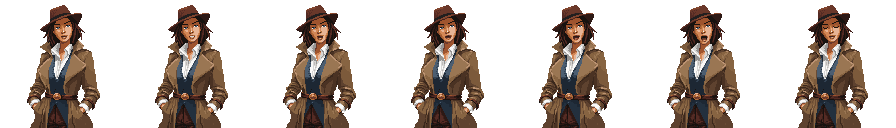
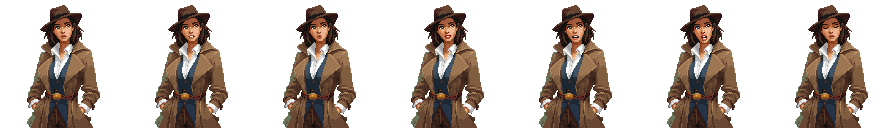
Sarah (female_office_worker_v2) south idle: nose on frames 0 and 3; Agent HaX visemes back to the hand-edited sheet from before b37b6e3f; tools/pixellab_drift_audit.py finds atlas hand edits missing from overrides, nurse2 stethoscope fix adopted as overrides

diff --git a/tools/pixellab_drift_audit.py b/tools/pixellab_drift_audit.py
@@ -1,0 +1,146 @@
+#!/usr/bin/env python3
+"""Find hand edits to walk atlases that tools/pixellab_overrides doesn't know about.
+
+`pixellab_pipeline.py import` rebuilds an atlas from the PixelLab ZIP export plus the committed
+frame overrides, so an edit painted straight onto public/.../characters/<key>.png is lost on
+the next import (e.g. after adding an animation). This rebuilds each atlas offline from the
+local export (tmp/pixellab/_export/<key>) and the overrides, then diffs it frame by frame
+against the committed atlas. Any frame that differs is an untracked hand edit.
+
+    python3 tools/pixellab_drift_audit.py                 # every key in pixellab_characters.json
+    python3 tools/pixellab_drift_audit.py female_nurse2_v2
+    python3 tools/pixellab_drift_audit.py female_nurse2_v2 --adopt   # save drifted frames as overrides
+
+--adopt crops each drifted frame out of the committed atlas back to the export frame's size and
+position and writes it to tools/pixellab_overrides/<key>/<animation>/<direction>/frame_NNN.png,
+so the committed atlas becomes reproducible. Run the audit again afterwards: it should be clean.
+Nothing in public/ is modified.
+"""
+import argparse
+import contextlib
+import io
+import json
+import shutil
+import sys
+from pathlib import Path
+
+from PIL import Image, ImageChops
+
+REPO = Path(__file__).resolve().parent.parent
+sys.path.insert(0, str(REPO / "tools"))
+from convert_pixellab_to_spritesheet import process_character  # noqa: E402
+
+ASSETS = REPO / "public/break_escape/assets/characters"
+EXPORTS = REPO / "tmp/pixellab/_export"
+OVERRIDES = REPO / "tools/pixellab_overrides"
+WORK = REPO / "tmp/pixellab/_drift"
+
+
+def export_root(export_dir):
+    sf = export_dir / ".state_folder"
+    if sf.exists():
+        return export_dir / sf.read_text().strip()
+    return next(p for p in [export_dir, *sorted(export_dir.iterdir())] if (p / "animations").is_dir())
+
+
+def frames(png, js):
+    im = Image.open(png).convert("RGBA")
+    out = {}
+    for name, v in json.loads(Path(js).read_text())["frames"].items():
+        f = v["frame"]
+        out[name] = im.crop((f["x"], f["y"], f["x"] + f["w"], f["y"] + f["h"]))
+    return out
+
+
+def changed(a, b):
+    return sum(1 for p in ImageChops.difference(a, b).getdata() if any(p))
+
+
+def audit(key):
+    """Returns (status, {frame name: changed pixels | reason}, export root)."""
+    if not (ASSETS / f"{key}.png").exists():
+        return "no atlas", {}, None
+    if not (EXPORTS / key).exists():
+        return "no local export in tmp/pixellab/_export (cannot check)", {}, None
+    work = WORK / "work" / key
+    shutil.rmtree(work, ignore_errors=True)
+    shutil.copytree(EXPORTS / key, work)
+    root = export_root(work)
+    ov = OVERRIDES / key
+    for f in ov.rglob("*.png") if ov.exists() else []:
+        dest = root / "animations" / f.relative_to(ov)
+        if dest.parent.exists():
+            shutil.copy(f, dest)
+    out = WORK / "atlas" / key
+    out.mkdir(parents=True, exist_ok=True)
+    with contextlib.redirect_stdout(io.StringIO()):
+        if not process_character(work, out, key=key):
+            return "rebuild failed", {}, None
+    committed = frames(ASSETS / f"{key}.png", ASSETS / f"{key}.json")
+    rebuilt = frames(out / f"{key}.png", out / f"{key}.json")
+    drift = {}
+    for n in sorted(set(committed) | set(rebuilt)):
+        if n not in committed or n not in rebuilt:
+            drift[n] = "missing in " + ("committed atlas" if n not in committed else "rebuild")
+        elif committed[n].size != rebuilt[n].size:
+            drift[n] = "frame size differs"
+        elif px := changed(committed[n], rebuilt[n]):
+            drift[n] = px
+    return ("drifted" if drift else "clean"), drift, export_root(EXPORTS / key)
+
+
+def adopt(key, drift, root):
+    committed = frames(ASSETS / f"{key}.png", ASSETS / f"{key}.json")
+    for n, px in drift.items():
+        if not isinstance(px, int):
+            print(f"  skip {n}: {px} (fix by hand)")
+            continue
+        anim, rest = n.split("_", 1)
+        direction, fr = rest.rsplit("_frame_", 1)
+        ex = Image.open(root / "animations" / anim / direction / f"frame_{fr}.png").convert("RGBA")
+        cell = committed[n]
+
+        def placed(ox, oy):
+            c = Image.new("RGBA", cell.size)
+            c.paste(ex, (ox, oy))
+            return c
+
+        # The converter pads the export frame onto the canvas; find where by best match.
+        _, ox, oy = min((changed(placed(x, y), cell), x, y)
+                        for x in range(cell.width - ex.width + 1)
+                        for y in range(cell.height - ex.height + 1))
+        crop = cell.crop((ox, oy, ox + ex.width, oy + ex.height))
+        full = Image.new("RGBA", cell.size)
+        full.paste(crop, (ox, oy))
+        outside = changed(full, cell)
+        dest = OVERRIDES / key / anim / direction / f"frame_{fr}.png"
+        dest.parent.mkdir(parents=True, exist_ok=True)
+        crop.save(dest)
+        note = f", {outside} edited px outside the export frame were lost" if outside else ""
+        print(f"  adopted {n} -> {dest.relative_to(REPO)}{note}")
+
+
+def main():
+    ap = argparse.ArgumentParser(description=__doc__, formatter_class=argparse.RawDescriptionHelpFormatter)
+    ap.add_argument("keys", nargs="*", help="atlas keys (default: every key in tools/pixellab_characters.json)")
+    ap.add_argument("--adopt", action="store_true", help="save drifted frames as overrides")
+    args = ap.parse_args()
+    keys = args.keys or sorted(json.loads((REPO / "tools/pixellab_characters.json").read_text()))
+    dirty = 0
+    for key in keys:
+        status, drift, root = audit(key)
+        print(f"{key}: {status}" + (f", {len(drift)} frame(s)" if drift else ""))
+        strips = {}
+        for n, px in drift.items():
+            strips.setdefault(n.rsplit("_frame_", 1)[0], []).append(f"{n.rsplit('_', 1)[1]}:{px}")
+        for s, fs in sorted(strips.items()):
+            print(f"    {s}  {' '.join(fs)}")
+        if drift:
+            dirty += 1
+            if args.adopt:
+                adopt(key, drift, root)
+    sys.exit(1 if dirty and not args.adopt else 0)
+
+
+if __name__ == "__main__":
+    main()

diff --git a/.claude/skills/pixellab-character-pipeline/SKILL.md b/.claude/skills/pixellab-character-pipeline/SKILL.md
@@ -185,6 +185,8 @@ Fix with the cheapest method that works, and show the user the before/after shee
 
 - `reroll` is non-destructive. Each take is generated in a temporary group, downloaded, and the temporary group deleted, so the character's original animation is untouched. It prints a sheet of the current strip against every take. On Val's south idle, take 1 had one frame flipped to a back view, and take 2 was clean.
 - `fix` and `reroll --accept` write frames to `tools/pixellab_overrides/<key>/<template>/<direction>/`, which is **committed** and reapplied by every `import`. Rebuild with `import <key> --offline --force`.
+- **Never paint straight onto `assets/characters/<key>.png`.** An online `import` rebuilds the atlas from the PixelLab ZIP plus the overrides, so a direct edit is silently lost (e.g. when adding an animation). Hand edits go in as `fix ... --use file:` or straight into the overrides folder. Before any online `import --force` of an existing key, run `python3 tools/pixellab_drift_audit.py <key>`: it rebuilds offline and lists frames that differ from the committed atlas; `--adopt` saves them as overrides. Audit on 2026-10-17: every atlas clean after adopting nurse2's stethoscope fix and Sarah's (female_office_worker_v2) south-idle nose; agent_hax and nightshade had no local export to check against.
+- Overrides are keyed by template/direction/frame number. If a strip is regenerated on PixelLab itself (not via `reroll`), its old overrides still get pasted onto the new frames: check the strip after import and delete stale override files.
 
 ## Stage 6: import into the game
 
